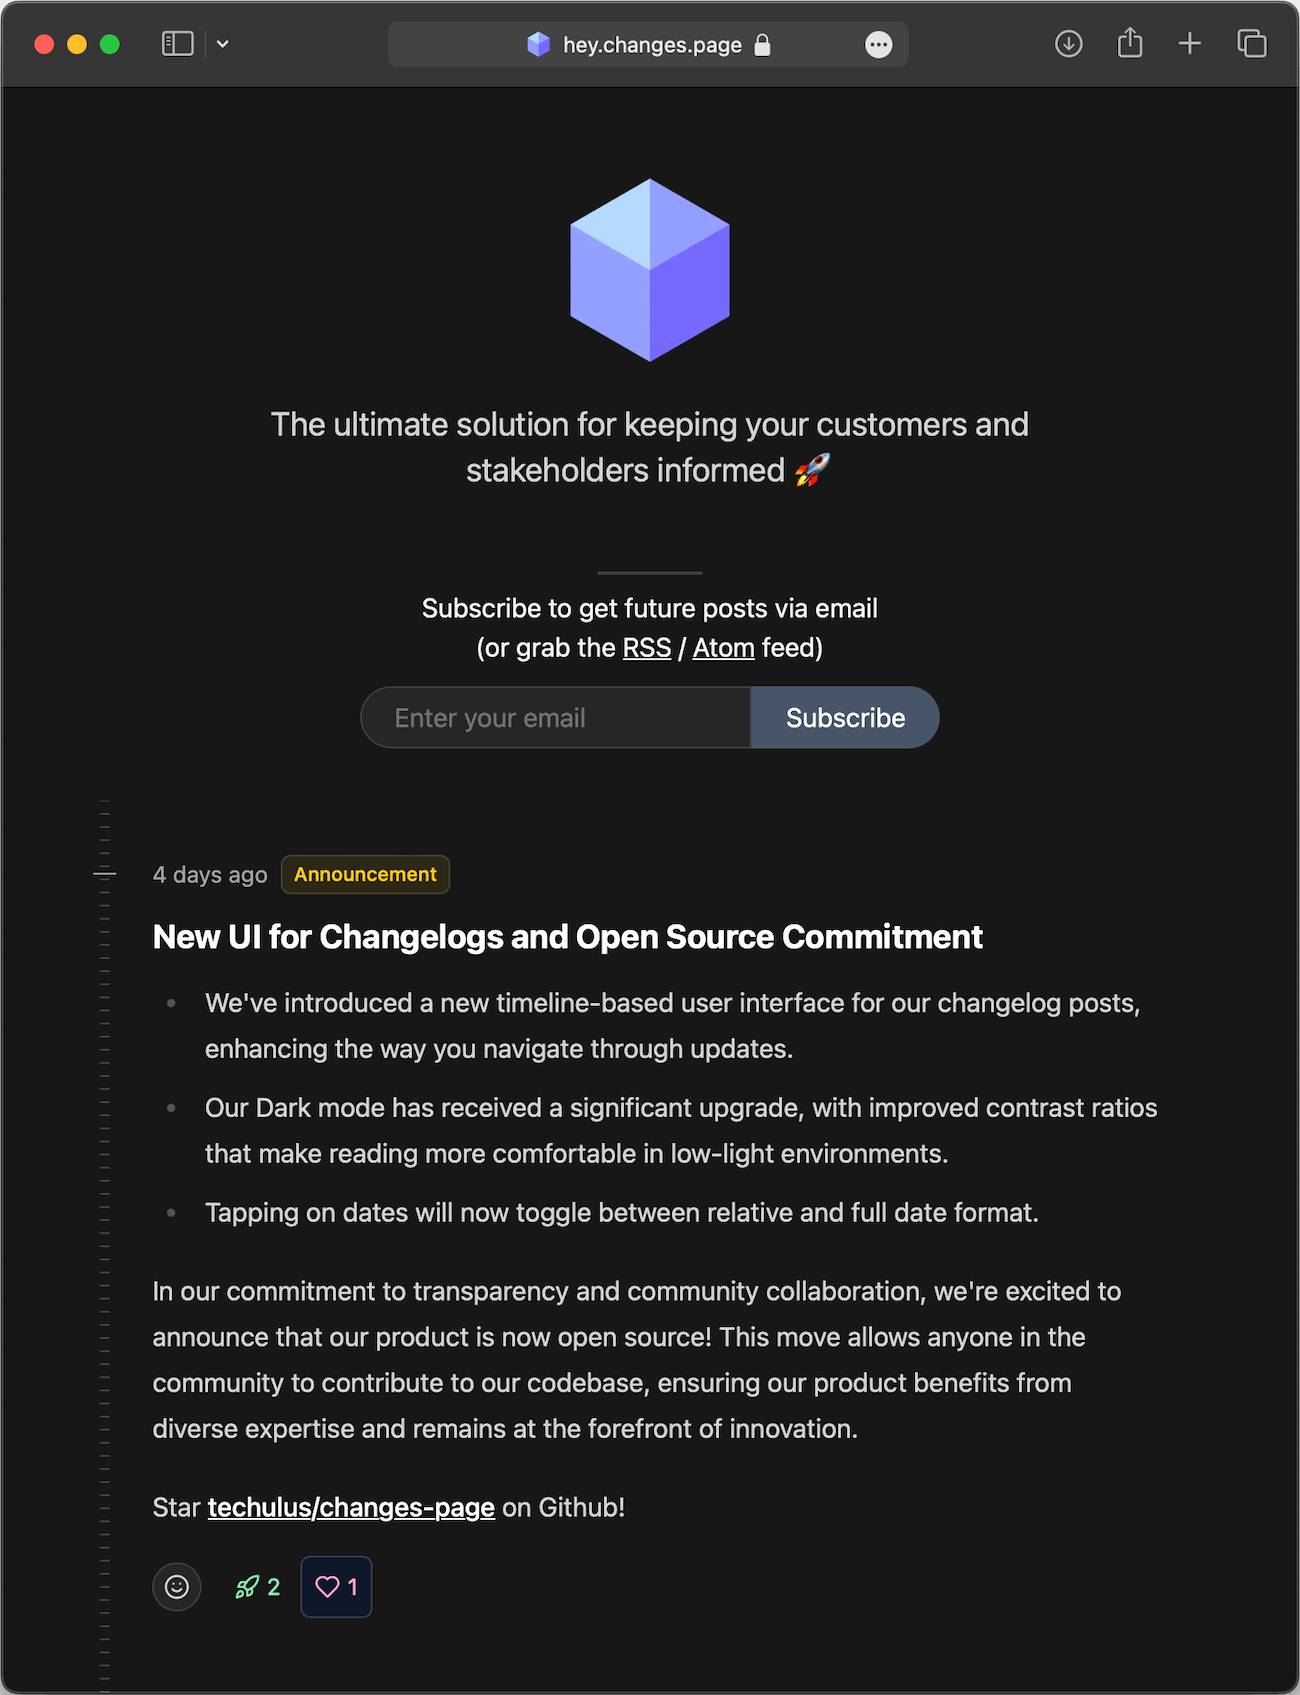
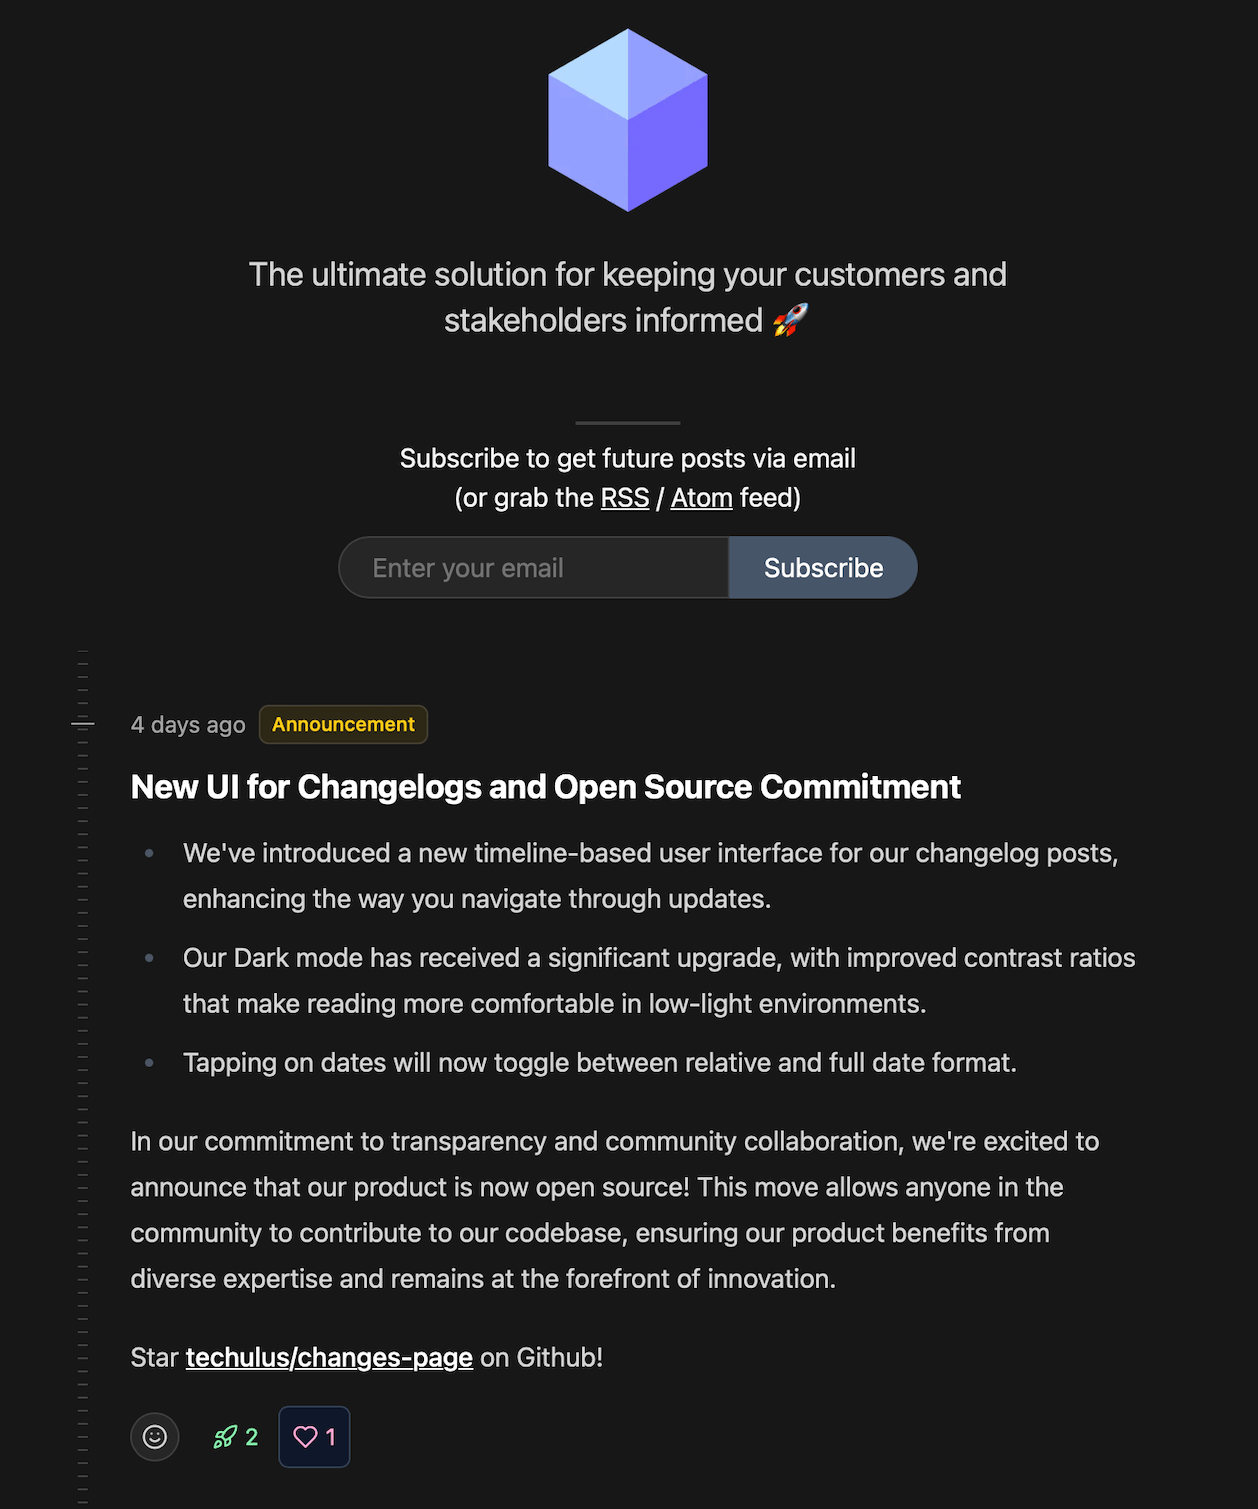
Fix landing page image and CLI version

Changed region(s): [[0.093, 0.4672, 0.899, 0.9655], [0.0, 0.0, 1.0, 1.0]]

diff --git a/apps/web/components/marketing/hero.tsx b/apps/web/components/marketing/hero.tsx
@@ -9,7 +9,7 @@ const version = require("../../package.json").version;
 
 function AppScreenshot() {
   return (
-    <div className="rounded-xl border border-gray-200 dark:border-white/10 overflow-hidden shadow-2xl">
+    <div className="rounded-xl border border-gray-200 dark:border-white/10 overflow-hidden shadow-2xl max-h-[600px]">
       <Image
         src={capture}
         alt="Changes.page changelog with timeline posts, reactions, and email subscriptions"
@@ -24,7 +24,7 @@ function AppScreenshot() {
 
 function TerminalMockup() {
   return (
-    <div className="rounded-xl border border-gray-200 dark:border-white/10 bg-gray-950 overflow-hidden shadow-2xl h-full flex flex-col">
+    <div className="rounded-xl border border-gray-200 dark:border-white/10 bg-gray-950 overflow-hidden shadow-2xl max-h-[450px] flex flex-col">
       <div className="flex items-center gap-2 px-4 py-2.5 bg-gray-900/60 border-b border-white/5">
         <div className="flex gap-1.5">
           <div className="w-2.5 h-2.5 rounded-full bg-gray-700" />
@@ -192,7 +192,7 @@ export default function Hero({
         <div className="mt-20 grid grid-cols-1 lg:grid-cols-2 gap-6 lg:gap-8">
           <div>
             <p className="text-sm font-medium text-indigo-600 dark:text-indigo-400 mb-3">
-              Web Editor
+              Changelog
             </p>
             <AppScreenshot />
           </div>

diff --git a/packages/cli/src/index.ts b/packages/cli/src/index.ts
@@ -2,12 +2,14 @@ import { Command } from "commander";
 import { registerConfigureCommand } from "./commands/configure.js";
 import { registerPostsCommand } from "./commands/posts.js";
 
+declare const __CLI_VERSION__: string;
+
 const program = new Command();
 
 program
   .name("chp")
   .description("CLI for changes.page")
-  .version("0.1.0")
+  .version(__CLI_VERSION__)
   .option("--secret-key <key>", "Page secret key")
   .option("--json", "Output raw JSON");
 

diff --git a/packages/cli/tsup.config.ts b/packages/cli/tsup.config.ts
@@ -1,10 +1,14 @@
 import { defineConfig } from "tsup";
+import pkg from "./package.json";
 
 export default defineConfig({
   entry: ["src/index.ts"],
   format: ["esm"],
   dts: true,
   clean: true,
+  define: {
+    __CLI_VERSION__: JSON.stringify(pkg.version),
+  },
   banner: {
     js: "#!/usr/bin/env node",
   },
